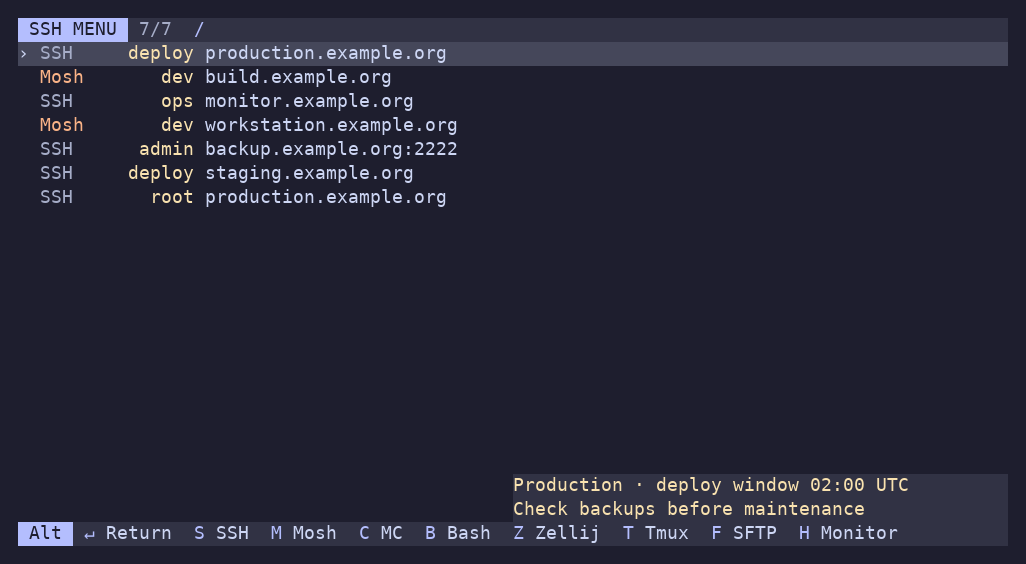
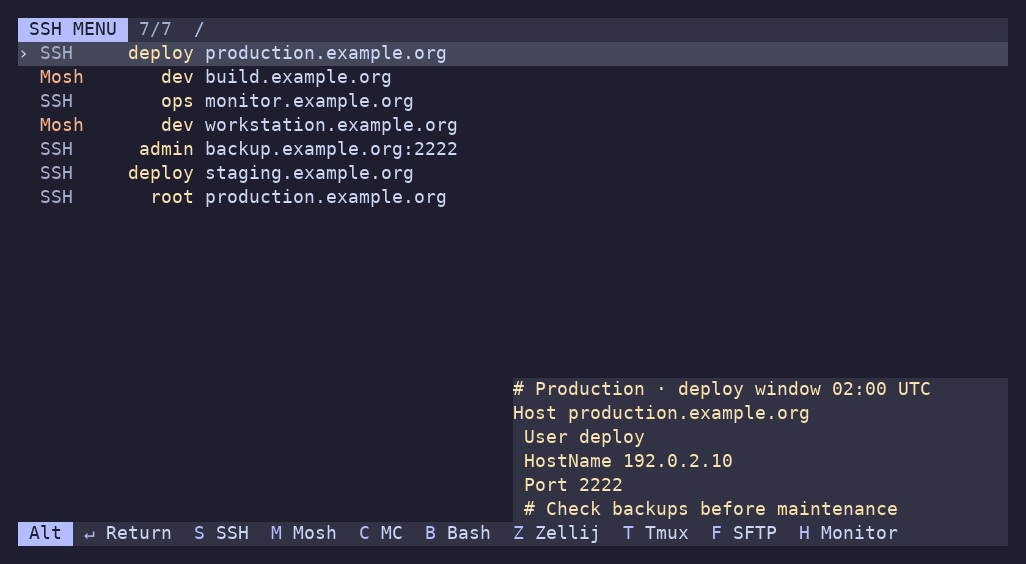
Show complete SSH host blocks and leading comments in hints

Changed region(s): [[0.499, 0.6631, 0.9045, 0.9344]]

diff --git a/src/search.rs b/src/search.rs
@@ -41,94 +41,135 @@ pub(super) fn matching(targets: &[Target], query: &str) -> Vec<usize> {
     matches.into_iter().map(|(_, _, i)| i).collect()
 }
 
-pub(super) fn comments(home: &Path, user: &str) -> HashMap<String, String> {
-    parse_comments(
+pub(super) fn host_config(home: &Path, user: &str) -> HashMap<String, String> {
+    parse_host_config(
         &fs::read_to_string(home.join(".ssh/config")).unwrap_or_default(),
         user,
     )
 }
 
-fn parse_comments(text: &str, user: &str) -> HashMap<String, String> {
+fn parse_host_config(text: &str, user: &str) -> HashMap<String, String> {
     let mut result = HashMap::new();
     let mut hosts = Vec::new();
     let mut login = None;
-    let mut notes = Vec::new();
+    let mut lines = Vec::new();
     let mut pending = Vec::new();
     let flush = |hosts: &Vec<String>,
                  login: &Option<String>,
-                 notes: &Vec<String>,
+                 lines: &Vec<String>,
                  result: &mut HashMap<String, String>| {
         if let Some(login) = login {
             for host in hosts {
                 if !host.contains(['*', '?', '!'])
-                    && !notes.is_empty()
                     && let Some(target) = target(&format!("{login}@{host}"), user)
                 {
-                    result.insert(target.host, notes.join("\n"));
+                    let block = lines.join("\n").trim_end().to_owned();
+                    result
+                        .entry(target.host)
+                        .and_modify(|text| {
+                            text.push_str("\n\n");
+                            text.push_str(&block);
+                        })
+                        .or_insert(block);
                 }
             }
         }
     };
     for line in text.lines() {
+        let line = line
+            .replace('\t', "    ")
+            .chars()
+            .filter(|c| !c.is_control())
+            .collect::<String>();
         let trimmed = line.trim();
-        if let Some(comment) = trimmed.strip_prefix('#') {
-            let comment = comment
-                .trim()
-                .chars()
-                .filter(|c| !c.is_control())
-                .collect::<String>();
-            if line.starts_with(char::is_whitespace) && !hosts.is_empty() {
-                notes.push(comment);
-            } else {
-                pending.push(comment);
+        // Delay all standalone comments, regardless of indentation. If the next
+        // directive is Host, they describe that block; otherwise they stay inside.
+        if trimmed.is_empty() || trimmed.starts_with('#') {
+            // A less-indented comment starts a new heading after an indented
+            // trailing note in the preceding block.
+            if trimmed.starts_with('#')
+                && !hosts.is_empty()
+                && let Some(previous) = pending
+                    .iter()
+                    .rev()
+                    .find(|s: &&String| !s.trim().is_empty())
+                && previous.len() - previous.trim_start().len()
+                    > line.len() - line.trim_start().len()
+            {
+                lines.append(&mut pending);
             }
+            pending.push(line);
             continue;
         }
-        let (code, inline) = trimmed
-            .split_once('#')
-            .map_or((trimmed, None), |(a, b)| (a, Some(b.trim())));
-        let words: Vec<_> = code.split_whitespace().collect();
-        if words
-            .first()
-            .is_some_and(|w| w.eq_ignore_ascii_case("host") || w.eq_ignore_ascii_case("match"))
-        {
-            flush(&hosts, &login, &notes, &mut result);
-            hosts = if words[0].eq_ignore_ascii_case("host") {
-                words[1..].iter().map(|s| (*s).into()).collect()
+        let code = without_comment(trimmed);
+        let (key, value) = code
+            .split_once(|c: char| c.is_whitespace() || c == '=')
+            .unwrap_or((code, ""));
+        let values =
+            shell_words::split(value.trim_start_matches(|c: char| c.is_whitespace() || c == '='))
+                .unwrap_or_default();
+        if key.eq_ignore_ascii_case("host") || key.eq_ignore_ascii_case("match") {
+            flush(&hosts, &login, &lines, &mut result);
+            hosts = if key.eq_ignore_ascii_case("host") {
+                values
             } else {
                 Vec::new()
             };
             login = None;
-            notes = std::mem::take(&mut pending);
-        } else if words
-            .first()
-            .is_some_and(|w| w.eq_ignore_ascii_case("user"))
-            && words.len() > 1
-        {
-            login = Some(words[1].to_owned());
-        }
-        if !words.is_empty() {
-            notes.append(&mut pending);
-            if let Some(comment) = inline {
-                notes.push(comment.chars().filter(|c| !c.is_control()).collect());
+            lines = std::mem::take(&mut pending);
+            // Leading blank separators don't belong in the popup.
+            let first = lines
+                .iter()
+                .position(|line| !line.trim().is_empty())
+                .unwrap_or(lines.len());
+            lines.drain(..first);
+        } else {
+            lines.append(&mut pending);
+            if key.eq_ignore_ascii_case("user") && login.is_none() {
+                login = values.first().cloned();
             }
         }
+        lines.push(line);
     }
-    flush(&hosts, &login, &notes, &mut result);
+    lines.append(&mut pending);
+    flush(&hosts, &login, &lines, &mut result);
     result
+}
+
+// A # inside a quoted value (IdentityFile, ProxyCommand, etc.) is not a comment.
+fn without_comment(line: &str) -> &str {
+    let mut quote = None;
+    let mut escaped = false;
+    for (index, ch) in line.char_indices() {
+        if escaped {
+            escaped = false;
+            continue;
+        }
+        if ch == '\\' {
+            escaped = true;
+            continue;
+        }
+        match (quote, ch) {
+            (None, '#') => return &line[..index],
+            (None, '\'' | '"') => quote = Some(ch),
+            (Some(open), close) if open == close => quote = None,
+            _ => {}
+        }
+    }
+    line
 }
 
 pub(super) fn hint(frame: &mut Frame, area: Rect, text: &str) {
     if area.width < 45 || area.height < 5 {
         return;
     }
-    let width = (area.width / 2).min(60);
+    let width = (area.width / 2).min(80);
     let paragraph = Paragraph::new(text)
         .wrap(Wrap { trim: false })
         .style(Style::default().fg(theme::USERNAME).bg(theme::SURFACE));
     let height = paragraph
         .line_count(width)
-        .min(usize::from(area.height / 3))
+        .min(usize::from(area.height.saturating_sub(2)))
         .max(1) as u16;
     let rect = Rect::new(area.right() - width, area.bottom() - height, width, height);
     frame.render_widget(Clear, rect);
@@ -156,18 +197,38 @@ mod tests {
         assert!(matching(&targets, "zz").is_empty());
     }
     #[test]
-    fn comments_follow_explicit_user_and_alias() {
-        let parsed = parse_comments(
+    fn host_config_preserves_settings_and_comments_for_user_and_alias() {
+        let parsed = parse_host_config(
             "# Production\nHost prod p\n User alice # Deploy user\n # Back up first\n# Staging\nHost stage\n User bob\nHost implicit\n # Not for root\nHost *\n User wildcard\n",
             "bob",
         );
         assert_eq!(
             parsed["alice@prod"],
-            "Production\nDeploy user\nBack up first"
+            "# Production\nHost prod p\n User alice # Deploy user\n # Back up first"
         );
         assert_eq!(parsed["alice@p"], parsed["alice@prod"]);
-        assert_eq!(parsed["stage"], "Staging");
+        assert_eq!(parsed["stage"], "# Staging\nHost stage\n User bob");
         assert!(!parsed.contains_key("root@prod"));
         assert!(!parsed.contains_key("implicit"));
+    }
+    #[test]
+    fn config_hint_handles_leading_comments_quotes_repeated_hosts_and_match() {
+        let parsed = parse_host_config(
+            "Host first\n User alice\n Port 2201\n\n  # Before second\n  # More context\nHost=second alias # Host note\n User = \"bob\"\n IdentityFile \"~/.ssh/key#work\" # Key note\n # Internal note\n ProxyCommand ssh jump -W %h:%p\n\nHost second\n User bob\n ServerAliveInterval 30\n # Trailing note\nMatch user bob\n # Not part of a Host block\n Port 9999\n",
+            "bob",
+        );
+        assert_eq!(parsed["alice@first"], "Host first\n User alice\n Port 2201");
+        let hint = &parsed["second"];
+        assert!(
+            hint.starts_with("  # Before second\n  # More context\nHost=second alias # Host note")
+        );
+        assert!(hint.contains("IdentityFile \"~/.ssh/key#work\" # Key note"));
+        assert!(hint.contains("# Internal note\n ProxyCommand ssh jump -W %h:%p"));
+        assert!(hint.contains("\n\nHost second\n User bob\n ServerAliveInterval 30"));
+        assert!(!hint.contains("Match"));
+        assert!(!hint.contains("9999"));
+        assert!(!parsed["alias"].contains("ServerAliveInterval"));
+        let eof = parse_host_config("# Before\nHost end\n User bob\n # Last comment\n", "bob");
+        assert!(eof["end"].ends_with(" # Last comment"));
     }
 }

diff --git a/tests/terminal.py b/tests/terminal.py
@@ -393,11 +393,14 @@ profiles:
     assert not (root / "command").exists()
     assert (root / ".bash_history").read_text() == before
     config_file.write_text(original_config)
-    # Fuzzy abbreviations and user-specific SSH comments.
+    # Fuzzy abbreviations and complete user-specific SSH config hints.
     (root / ".bash_history").write_text("ssh alpha\n")
-    (root / ".ssh/config").write_text("# Production note\nHost alpha\n User tester\n")
+    (root / ".ssh/config").write_text("  # Production note\nHost alpha # primary\n User tester\n HostName 192.0.2.10\n Port 2222\n")
     output = session([b"aph", b"\r"])
     assert b"Production note" in output
+    assert b"Host alpha # primary" in output
+    assert b"HostName 192.0.2.10" in output
+    assert b"Port 2222" in output
     assert (root / "command").read_text().splitlines()[1:] == ["--", "alpha"]
 
     # One-off inputs remain literal and do not enter history.

diff --git a/scripts/screenshot.py b/scripts/screenshot.py
@@ -63,7 +63,7 @@ with tempfile.TemporaryDirectory(prefix='ssh-menu-screenshot-') as directory:
         config = (repo / 'ssh-menu-config.example.yml').read_text()
         config = re.sub(r'(?m)^      disks_filter = .*$', '      disks_filter = "/"', config)
         (home / '.ssh/ssh-menu-config.yml').write_text(config)
-    (home / ".ssh/config").write_text("# Production · deploy window 02:00 UTC\nHost production.example.org\n User deploy\n # Check backups before maintenance\n")
+    (home / ".ssh/config").write_text("# Production · deploy window 02:00 UTC\nHost production.example.org\n User deploy\n HostName 192.0.2.10\n Port 2222\n # Check backups before maintenance\n")
     (home / ".ssh/id_ed25519").write_text("demo fixture")
     (home / ".ssh/id_ed25519.pub").write_text("demo fixture")
     (home / '.bash_history').write_text(

diff --git a/src/main.rs b/src/main.rs
@@ -279,7 +279,7 @@ fn menu(
         profiles,
     } = state;
     let mut bar_state = bar::State::default();
-    let comments = search::comments(home, &env::var("USER").unwrap_or_default());
+    let host_config = search::host_config(home, &env::var("USER").unwrap_or_default());
     loop {
         let footer_height = 1;
         let visible = matching(targets, query);
@@ -400,9 +400,9 @@ fn menu(
                 ],
             );
             if let Some(i) = visible.get(*selection)
-                && let Some(comment) = comments.get(&targets[*i].host)
+                && let Some(block) = host_config.get(&targets[*i].host)
             {
-                search::hint(frame, areas[1], comment);
+                search::hint(frame, areas[1], block);
             }
         })?;
         let event = event::read()?;

diff --git a/docs/usage.md b/docs/usage.md
@@ -57,9 +57,9 @@ Press **F1** from the host list or new-remote dialog to read these docs without 
 
 The app version appears in the top-right corner of help. The help viewer wraps text to the terminal width and shows your position in each topic. Resizing adjusts the layout. It preserves your host filter, selected profile, and unfinished dialog inputs. Links are displayed as text; use the topic keys to navigate. The documentation is embedded in the binary, so help works offline without installed documentation files.
 
-## Host comments
+## Host configuration hint
 
-When a selected SSH config entry has an explicit `User`, its comments appear in a borderless hint at the bottom right. Comments immediately before `Host`, indented comments inside the section, and inline comments are included. Notes match the configured username and alias, including entries rediscovered from history; they are not copied to synthetic root entries. Wildcards, `Include`, and `Match` expansion are not supported. Small terminals hide the hint to leave room for hosts.
+When a selected SSH config entry has an explicit `User`, its complete source block appears in a borderless hint at the bottom right: the `Host` line, settings, and comments. A comment group immediately before `Host` belongs to that entry, even when indented; comments inside the block and inline comments remain in place. Multiple matching blocks are shown in file order. Hints match the configured username and alias, including entries rediscovered from history; they are not copied to synthetic root entries. This is the source configuration, not SSH’s resolved settings: wildcards, `Include`, and `Match` expansion are not supported. The popup grows with the block up to the available screen height; very long blocks can still be clipped, and small terminals hide the hint to leave room for hosts.
 
 ## After disconnecting
 
